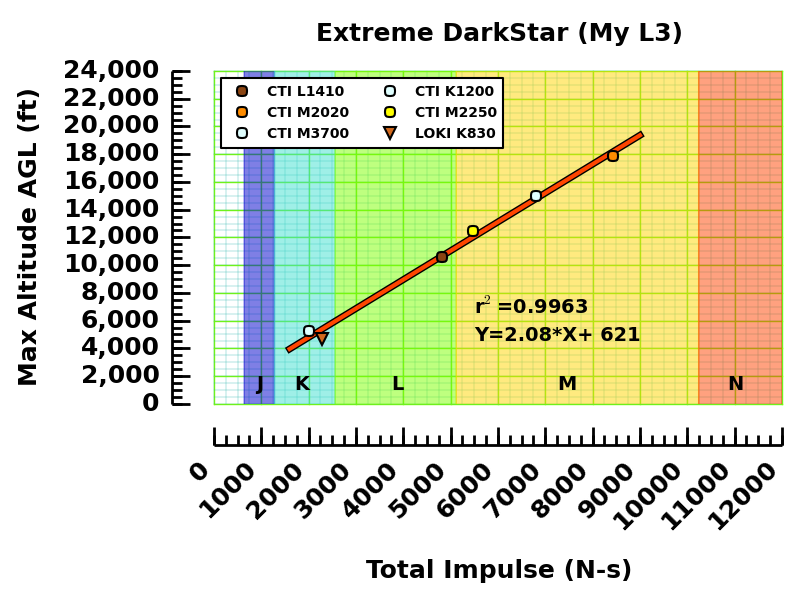
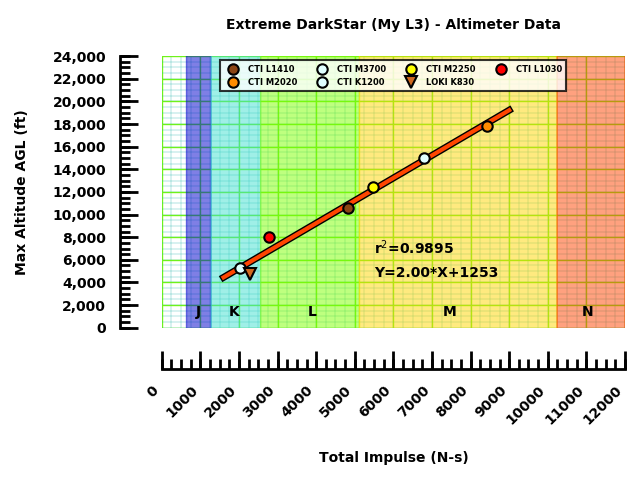
Added new flights, text format and size.

diff --git a/plots/MasterPlots_v3.py b/plots/MasterPlots_v3.py
@@ -11,7 +11,8 @@ import os
 import sys
 import numpy as np
 import matplotlib
-matplotlib.use('TkAgg')
+#matplotlib.use('TkAgg')
+matplotlib.use('Agg')
 import matplotlib.pyplot as plt
 import matplotlib.patheffects as mpe
 import matplotlib.font_manager as font_manager
@@ -63,7 +64,7 @@ import scipy.stats as sp
 def FlightLog_ExtremeDS():
 
     # Title
-    ttl = r"Extreme DarkStar (My L3)"
+    ttl = r"Extreme DarkStar (My L3) - Altimeter Data"
 
     # Month/Day/Year/Motor/Mfg/Itot/Fave/Alt (Known Flights Only)
     data = [['May',  '1', '2011', 'L1410',  'CTI', 4828.3, 1410, 10608],\
@@ -71,7 +72,8 @@ def FlightLog_ExtremeDS():
             ['Mar', '31', '2012', 'M3700',  'CTI', 6800.0, 3600, 15000],\
             ['n/a','/na',  'n/a', 'K1200',  'CTI', 2014.0, 1200,  5243],\
             ['Oct', '31', '2015', 'M2250',  'CTI', 5472.2, 2250, 12458],\
-            ['Aug', '30', '2019',  'K830', 'LOKI', 2287.0,  830,  4707]]
+            ['Aug', '30', '2019',  'K830', 'LOKI', 2287.0,  830,  4707],\
+            ['Jan', '11', '2020', 'L1030',  'CTI', 2787.9, 1030,  8057]]
 
     # Marker size/type/color
     symb = [[10, "o", "saddlebrown"  ],\
@@ -79,7 +81,8 @@ def FlightLog_ExtremeDS():
             [10, "o", "lightcyan"    ],\
             [10, "o", "lightcyan"    ],\
             [10, "o", "yellow"       ],\
-            [12, "v", "chocolate"    ]]
+            [12, "v", "chocolate"    ],\
+            [10, "o", "red"          ]]
 
     return [ttl,data,symb]
 
@@ -90,7 +93,7 @@ def FlightLog_ExtremeDS():
 def FlightLog_DSJrWM():
 
     # Title
-    ttl = r"DarkStar Junior by WildMan"
+    ttl = r"DarkStar Junior by WildMan - Altimeter Data"
 
     # Month/Day/Year/Motor/Mfg/Itot/Fave/Alt
     data = [['May', '13', '2017',  'I285',  'CTI',  510.1,  285,  4466],\
@@ -125,7 +128,7 @@ def FlightLog_DSJrWM():
 def FlightLog_Comp3WM():
 
     # Title
-    ttl = r"Competitor 3 by WildMan"
+    ttl = r"Competitor 3 by WildMan - Altimeter Data"
 
     # Month/Day/Year/Motor/Mfg/Itot/Fave/Alt
     data = [['Nov',  '2', '2013',  'K940',  'CTI', 1632.7,  940,  9200],\
@@ -160,7 +163,7 @@ def FlightLog_Comp3WM():
 def FlightLog_Intimidator4():
 
     # Title
-    ttl = r"Intimidator 4 (Kit Bash)"
+    ttl = r"Intimidator 4 (Kit Bash) - Altimeter Data"
 
     # Month/Day/Year/Motor/Mfg/Itot/Fave/Alt
     dold = [['Nov',  '1', '2014', 'M3400',  'CTI', 9994.5, 3400, 19035],\
@@ -191,7 +194,7 @@ def FlightLog_Intimidator4():
 def FlightLog_GizmoXLDD():
 
     # Title
-    ttl = r"Gizmo XL DD"
+    ttl = r"Gizmo XL DD - Altimeter Data"
 
     # Month/Day/Year/Motor/Mfg/Itot/Fave/Alt (Known Flights Only)
     data = [['Nov', '10', '2018', 'M2080',  'CTI', 6827.3, 2080,  7163]]
@@ -242,7 +245,7 @@ def AltPlot_GK(fout,title,data,symb,lb,ub):
     # Font
     for label in (ax.get_xticklabels()+ax.get_yticklabels()):
         label.set_fontname(family)
-        label.set_fontsize(26)
+        label.set_fontsize(10)
 
     # border position
     f.subplots_adjust(left=0.2,right=0.9,bottom=0.22,top=0.85)
@@ -299,15 +302,15 @@ def AltPlot_GK(fout,title,data,symb,lb,ub):
     for line in ticklines:
         line.set_linewidth(2.0)
     for label in ticklabels:
-        label.set_fontsize(18)
+        label.set_fontsize(10)
 
     # set the text
-    ax.set_title(title,fontsize=18,weight='bold')
-    ax.set_ylabel(ytxt,fontsize=18,weight='bold')
-    ax.set_xlabel(xtxt,fontsize=18,weight='bold')
-    ax.set_xticklabels(xticks,fontsize=18,weight='bold',\
+    ax.set_title(title,fontsize=10,weight='bold')
+    ax.set_ylabel(ytxt,fontsize=10,weight='bold')
+    ax.set_xlabel(xtxt,fontsize=10,weight='bold')
+    ax.set_xticklabels(xticks,fontsize=10,weight='bold',\
         rotation=45,ha='right')
-    ax.set_yticklabels(yticks,fontsize=18,weight='bold')
+    ax.set_yticklabels(yticks,fontsize=10,weight='bold')
 
     ##########################
     ### ADD YOUR DATA HERE ###
@@ -321,7 +324,7 @@ def AltPlot_GK(fout,title,data,symb,lb,ub):
     yhig=itot+1.e6
     plt.fill_between(itot,yhig,ylow,interpolate=True,alpha=0.5,\
         color='mediumblue',label='_nolegend_')
-    plt.text(85.,1000,r'G',fontsize=14,family=family,\
+    plt.text(85.,1000,r'G',fontsize=10,family=family,\
         color='k',fontweight='bold')
 
     # H-Range
@@ -330,7 +333,7 @@ def AltPlot_GK(fout,title,data,symb,lb,ub):
     yhig=itot+1.e6
     plt.fill_between(itot,yhig,ylow,interpolate=True,alpha=0.5,\
         color='turquoise',label='_nolegend_')
-    plt.text(200.,1000,r'H',fontsize=14,family=family,\
+    plt.text(200.,1000,r'H',fontsize=10,family=family,\
         color='k',fontweight='bold')
 
     # I-Range
@@ -339,7 +342,7 @@ def AltPlot_GK(fout,title,data,symb,lb,ub):
     yhig=itot+1.e6
     plt.fill_between(itot,yhig,ylow,interpolate=True,alpha=0.5,\
         color='chartreuse',label='_nolegend_')
-    plt.text(0.5*(320.01+640.0),1000,r'I',fontsize=14,family=family,\
+    plt.text(0.5*(320.01+640.0),1000,r'I',fontsize=10,family=family,\
         color='k',fontweight='bold')
 
     # J-Range
@@ -348,7 +351,7 @@ def AltPlot_GK(fout,title,data,symb,lb,ub):
     yhig=itot+1.e6
     plt.fill_between(itot,yhig,ylow,interpolate=True,alpha=0.5,\
         color='gold',label='_nolegend_')
-    plt.text(0.5*(640.01+1280.0),1000,r'J',fontsize=14,family=family,\
+    plt.text(0.5*(640.01+1280.0),1000,r'J',fontsize=10,family=family,\
         color='k',fontweight='bold')
 
     # K-Range
@@ -357,7 +360,7 @@ def AltPlot_GK(fout,title,data,symb,lb,ub):
     yhig=itot+1.e6
     plt.fill_between(itot,yhig,ylow,interpolate=True,alpha=0.5,\
         color='orangered',label='_nolegend_')
-    plt.text(0.5*(1280.01+2000),1000,r'K',fontsize=14,family=family,\
+    plt.text(0.5*(1280.01+2000),1000,r'K',fontsize=10,family=family,\
         color='k',fontweight='bold')
 
     # Flight Data
@@ -388,9 +391,9 @@ def AltPlot_GK(fout,title,data,symb,lb,ub):
 
     str1=r'Y=%1.2f*X+%4.0f'%(m,b)
     str2=r'r$^2$=%1.4f'%(r)
-    plt.text(1200,3500,str1,fontsize=14,family=family,\
+    plt.text(1200,3500,str1,fontsize=10,family=family,\
         color='k',fontweight='bold')
-    plt.text(1200,4800,str2,fontsize=14,family=family,\
+    plt.text(1200,4800,str2,fontsize=10,family=family,\
         color='k',fontweight='bold')
 
     outline=mpe.withStroke(linewidth=5.0,foreground='k')
@@ -436,7 +439,7 @@ def AltPlot_GK(fout,title,data,symb,lb,ub):
 
     legend = ax.legend(loc=loc,ncol=4,\
         prop=matplotlib.font_manager.FontProperties(\
-            family=family,weight='bold',size=10),\
+            family=family,weight='bold',size=6),\
         numpoints=1,fancybox=False,borderpad=0.5)
     legend.get_frame().set_linewidth(1.5)
     legend.get_frame().set_edgecolor("k")
@@ -489,7 +492,7 @@ def AltPlot_HL(fout,title,data,symb,lb,up):
     # Font
     for label in (ax.get_xticklabels()+ax.get_yticklabels()):
         label.set_fontname(family)
-        label.set_fontsize(26)
+        label.set_fontsize(10)
 
     # border position
     f.subplots_adjust(left=0.2,right=0.9,bottom=0.22,top=0.85)
@@ -546,15 +549,15 @@ def AltPlot_HL(fout,title,data,symb,lb,up):
     for line in ticklines:
         line.set_linewidth(2.0)
     for label in ticklabels:
-        label.set_fontsize(18)
+        label.set_fontsize(10)
 
     # set the text
-    ax.set_title(title,fontsize=18,weight='bold')
-    ax.set_ylabel(ytxt,fontsize=18,weight='bold')
-    ax.set_xlabel(xtxt,fontsize=18,weight='bold')
-    ax.set_xticklabels(xticks,fontsize=18,weight='bold',\
+    ax.set_title(title,fontsize=10,weight='bold')
+    ax.set_ylabel(ytxt,fontsize=10,weight='bold')
+    ax.set_xlabel(xtxt,fontsize=10,weight='bold')
+    ax.set_xticklabels(xticks,fontsize=10,weight='bold',\
         rotation=45,ha='right')
-    ax.set_yticklabels(yticks,fontsize=18,weight='bold')
+    ax.set_yticklabels(yticks,fontsize=10,weight='bold')
 
     ##########################
     ### ADD YOUR DATA HERE ###
@@ -568,7 +571,7 @@ def AltPlot_HL(fout,title,data,symb,lb,up):
     yhig=itot+1.e6
     plt.fill_between(itot,yhig,ylow,interpolate=True,alpha=0.5,\
         color='mediumblue',label='_nolegend_')
-    plt.text(175.,1000,r'H',fontsize=14,family=family,\
+    plt.text(175.,1000,r'H',fontsize=10,family=family,\
         color='k',fontweight='bold')
 
     # I-Range
@@ -577,7 +580,7 @@ def AltPlot_HL(fout,title,data,symb,lb,up):
     yhig=itot+1.e6
     plt.fill_between(itot,yhig,ylow,interpolate=True,alpha=0.5,\
         color='turquoise',label='_nolegend_')
-    plt.text(0.5*(320.01+640.0),1000,r'I',fontsize=14,family=family,\
+    plt.text(0.5*(320.01+640.0),1000,r'I',fontsize=10,family=family,\
         color='k',fontweight='bold')
 
     # J-Range
@@ -586,7 +589,7 @@ def AltPlot_HL(fout,title,data,symb,lb,up):
     yhig=itot+1.e6
     plt.fill_between(itot,yhig,ylow,interpolate=True,alpha=0.5,\
         color='chartreuse',label='_nolegend_')
-    plt.text(0.5*(640.01+1280.0),1000,r'J',fontsize=14,family=family,\
+    plt.text(0.5*(640.01+1280.0),1000,r'J',fontsize=10,family=family,\
         color='k',fontweight='bold')
 
     # K-Range
@@ -595,7 +598,7 @@ def AltPlot_HL(fout,title,data,symb,lb,up):
     yhig=itot+1.e6
     plt.fill_between(itot,yhig,ylow,interpolate=True,alpha=0.5,\
         color='gold',label='_nolegend_')
-    plt.text(0.5*(1280.01+2560.0),1000,r'K',fontsize=14,family=family,\
+    plt.text(0.5*(1280.01+2560.0),1000,r'K',fontsize=10,family=family,\
         color='k',fontweight='bold')
 
     # L-Range
@@ -604,7 +607,7 @@ def AltPlot_HL(fout,title,data,symb,lb,up):
     yhig=itot+1.e6
     plt.fill_between(itot,yhig,ylow,interpolate=True,alpha=0.5,\
         color='orangered',label='_nolegend_')
-    plt.text(0.5*(2560.01+3500),1000,r'L',fontsize=14,family=family,\
+    plt.text(0.5*(2560.01+3500),1000,r'L',fontsize=10,family=family,\
         color='k',fontweight='bold')
 
     # Flight Data
@@ -635,9 +638,9 @@ def AltPlot_HL(fout,title,data,symb,lb,up):
 
     str1=r'Y=%1.2f*X+%4.0f'%(m,b)
     str2=r'r$^2$=%1.4f'%(r)
-    plt.text(2000,3900,str1,fontsize=14,family=family,\
+    plt.text(2000,3900,str1,fontsize=10,family=family,\
         color='k',fontweight='bold')
-    plt.text(2000,5200,str2,fontsize=14,family=family,\
+    plt.text(2000,5200,str2,fontsize=10,family=family,\
         color='k',fontweight='bold')
 
     outline=mpe.withStroke(linewidth=5.0,foreground='black')
@@ -683,7 +686,7 @@ def AltPlot_HL(fout,title,data,symb,lb,up):
 
     legend = ax.legend(loc=loc,ncol=4,\
         prop=matplotlib.font_manager.FontProperties(\
-            family=family,weight='bold',size=10),\
+            family=family,weight='bold',size=6),\
         numpoints=1,fancybox=False,borderpad=0.5)
     legend.get_frame().set_linewidth(1.5)
     legend.get_frame().set_edgecolor("k")
@@ -737,7 +740,7 @@ def AltPlot_JN(fout,title,data,symb,lb,ub):
     # Font
     for label in (ax.get_xticklabels()+ax.get_yticklabels()):
         label.set_fontname(family)
-        label.set_fontsize(26)
+        label.set_fontsize(10)
 
     # border position
     f.subplots_adjust(left=0.2,right=0.9,bottom=0.2,top=0.85)
@@ -794,15 +797,15 @@ def AltPlot_JN(fout,title,data,symb,lb,ub):
     for line in ticklines:
         line.set_linewidth(2.0)
     for label in ticklabels:
-        label.set_fontsize(18)
+        label.set_fontsize(10)
 
     # set the text
-    ax.set_title(title,fontsize=18,weight='bold')
-    ax.set_ylabel(ytxt,fontsize=18,weight='bold')
-    ax.set_xlabel(xtxt,fontsize=18,weight='bold')
-    ax.set_xticklabels(xticks,fontsize=18,weight='bold',\
+    ax.set_title(title,fontsize=10,weight='bold')
+    ax.set_ylabel(ytxt,fontsize=10,weight='bold')
+    ax.set_xlabel(xtxt,fontsize=10,weight='bold')
+    ax.set_xticklabels(xticks,fontsize=10,weight='bold',\
         rotation=45,ha='right')
-    ax.set_yticklabels(yticks,fontsize=18,weight='bold')
+    ax.set_yticklabels(yticks,fontsize=10,weight='bold')
 
     ##########################
     ### ADD YOUR DATA HERE ###
@@ -816,7 +819,7 @@ def AltPlot_JN(fout,title,data,symb,lb,ub):
     yhig=itot+1.e6
     plt.fill_between(itot,yhig,ylow,interpolate=True,alpha=0.5,\
         color='mediumblue',label='_nolegend_')
-    plt.text(0.5*(640.01+1100.0),1000,r'J',fontsize=14,family=family,\
+    plt.text(0.5*(640.01+1100.0),1000,r'J',fontsize=10,family=family,\
         color='k',fontweight='bold')
 
     # K-Range
@@ -825,7 +828,7 @@ def AltPlot_JN(fout,title,data,symb,lb,ub):
     yhig=itot+1.e6
     plt.fill_between(itot,yhig,ylow,interpolate=True,alpha=0.5,\
         color='turquoise',label='_nolegend_')
-    plt.text(0.5*(1280.01+2200.0),1000,r'K',fontsize=14,family=family,\
+    plt.text(0.5*(1280.01+2200.0),1000,r'K',fontsize=10,family=family,\
         color='k',fontweight='bold')
 
     # L-Range
@@ -834,7 +837,7 @@ def AltPlot_JN(fout,title,data,symb,lb,ub):
     yhig=itot+1.e6
     plt.fill_between(itot,yhig,ylow,interpolate=True,alpha=0.5,\
         color='chartreuse',label='_nolegend_')
-    plt.text(0.5*(2560.01+5000),1000,r'L',fontsize=14,family=family,\
+    plt.text(0.5*(2560.01+5000),1000,r'L',fontsize=10,family=family,\
         color='k',fontweight='bold')
 
     # M-Range
@@ -843,7 +846,7 @@ def AltPlot_JN(fout,title,data,symb,lb,ub):
     yhig=itot+1.e6
     plt.fill_between(itot,yhig,ylow,interpolate=True,alpha=0.5,\
         color='gold',label='_nolegend_')
-    plt.text(0.5*(5120.01+9440),1000,r'M',fontsize=14,family=family,\
+    plt.text(0.5*(5120.01+9440),1000,r'M',fontsize=10,family=family,\
         color='k',fontweight='bold')
 
     # N-Range
@@ -852,7 +855,7 @@ def AltPlot_JN(fout,title,data,symb,lb,ub):
     yhig=itot+1.e6
     plt.fill_between(itot,yhig,ylow,interpolate=True,alpha=0.5,\
         color='orangered',label='_nolegend_')
-    plt.text(0.5*(10240.01+11500),1000,r'N',fontsize=14,family=family,\
+    plt.text(0.5*(10240.01+11500),1000,r'N',fontsize=10,family=family,\
         color='k',fontweight='bold')
 
     # Flight Data
@@ -885,9 +888,9 @@ def AltPlot_JN(fout,title,data,symb,lb,ub):
         str1=r'Y=%1.2f*X+%4.0f'%(m,b)
         str2=r'r$^2$=%1.4f'%(r)
 
-        plt.text(5500,4500,str1,fontsize=14,family=family,\
+        plt.text(5500,4500,str1,fontsize=10,family=family,\
             color='k',fontweight='bold')
-        plt.text(5500,6500,str2,fontsize=14,family=family,\
+        plt.text(5500,6500,str2,fontsize=10,family=family,\
             color='k',fontweight='bold')
 
         outline=mpe.withStroke(linewidth=5.0,foreground='black')
@@ -929,11 +932,11 @@ def AltPlot_JN(fout,title,data,symb,lb,ub):
     # 'upper center'......9
     # 'center'............10
     #
-    loc=2
+    loc=9
 
-    legend = ax.legend(loc=loc,ncol=2,\
+    legend = ax.legend(loc=loc,ncol=4,\
         prop=matplotlib.font_manager.FontProperties(\
-            family=family,weight='bold',size=10),\
+            family=family,weight='bold',size=6),\
         numpoints=1,fancybox=False,borderpad=0.5)
     legend.get_frame().set_linewidth(1.5)
     legend.get_frame().set_edgecolor("k")
@@ -1301,10 +1304,10 @@ lb = 2500
 ub = 5500
 AltPlot_JN(fout,ttl,data,symb,lb,ub)
 
-fout = 'GizmoXLDD_Alt'
-[ttl,data,symb] = FlightLog_GizmoXLDD()
-AltPlot_JN(fout,ttl,data,symb,lb,ub)
+#fout = 'GizmoXLDD_Alt'
+#[ttl,data,symb] = FlightLog_GizmoXLDD()
+#AltPlot_JN(fout,ttl,data,symb,lb,ub)
 
-fout = 'Fleet_Alt'
-ttl = 'Altimeter Flight Data'
-AltPlot_ALL(fout,ttl)
+#fout = 'Fleet_Alt'
+#ttl = 'Altimeter Flight Data'
+#AltPlot_ALL(fout,ttl)
